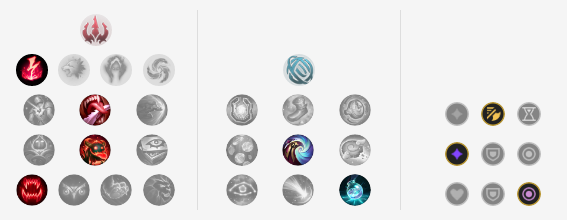
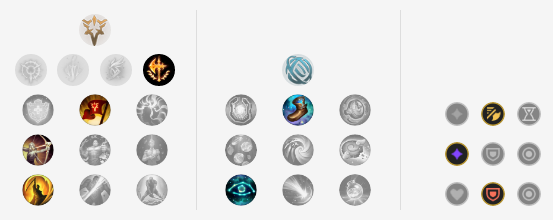
now filters white background out of rune page

diff --git a/screenshot.py b/screenshot.py
@@ -1,10 +1,11 @@
 from selenium import webdriver
 from selenium.webdriver.common.keys import Keys
+from PIL import Image
 
 def get_runes(champ, lane):
     googleChromeOptions = webdriver.chrome.options.Options()
     googleChromeOptions.headless = True
-    googleChromeOptions.add_argument('--window-size=1920,1080')
+    googleChromeOptions.add_argument('--window-size=568,300')
     googleChrome = webdriver.Chrome(executable_path="/usr/bin/chromedriver",
     options=googleChromeOptions)
     pageUrl = f"https://oce.op.gg/champion/{champ}/statistics/{lane}"
@@ -12,8 +13,23 @@ def get_runes(champ, lane):
     element = googleChrome.find_element_by_class_name('perk-page-wrap')
     element = element.screenshot_as_png
 
+    
     with open('images/out.png', 'wb') as f:
         f.write(element)
+
+    img = Image.open('images/out.png')
+    img = img.convert("RGBA")
+    datas = img.getdata()
+
+    newData = []
+    for item in datas:
+        if item[0] == 245 and item[1] == 245 and item[2] == 245:
+            newData.append((0, 0, 255, 0))
+        else:
+            newData.append(item)
+
+    img.putdata(newData)
+    img.save("images/out2.png", "PNG")
     googleChrome.close()
 
 if __name__ == "__main__":

diff --git a/bot.py b/bot.py
@@ -60,7 +60,7 @@ async def build_cmd(ctx, *args):
             await ctx.send(build)
 
             get_runes(args[1], args[0])
-            await ctx.send(file=discord.File('images/out.png'))
+            await ctx.send(file=discord.File('images/out2.png'))
         else:
             await ctx.send('Check Spelling u idiot')
 
